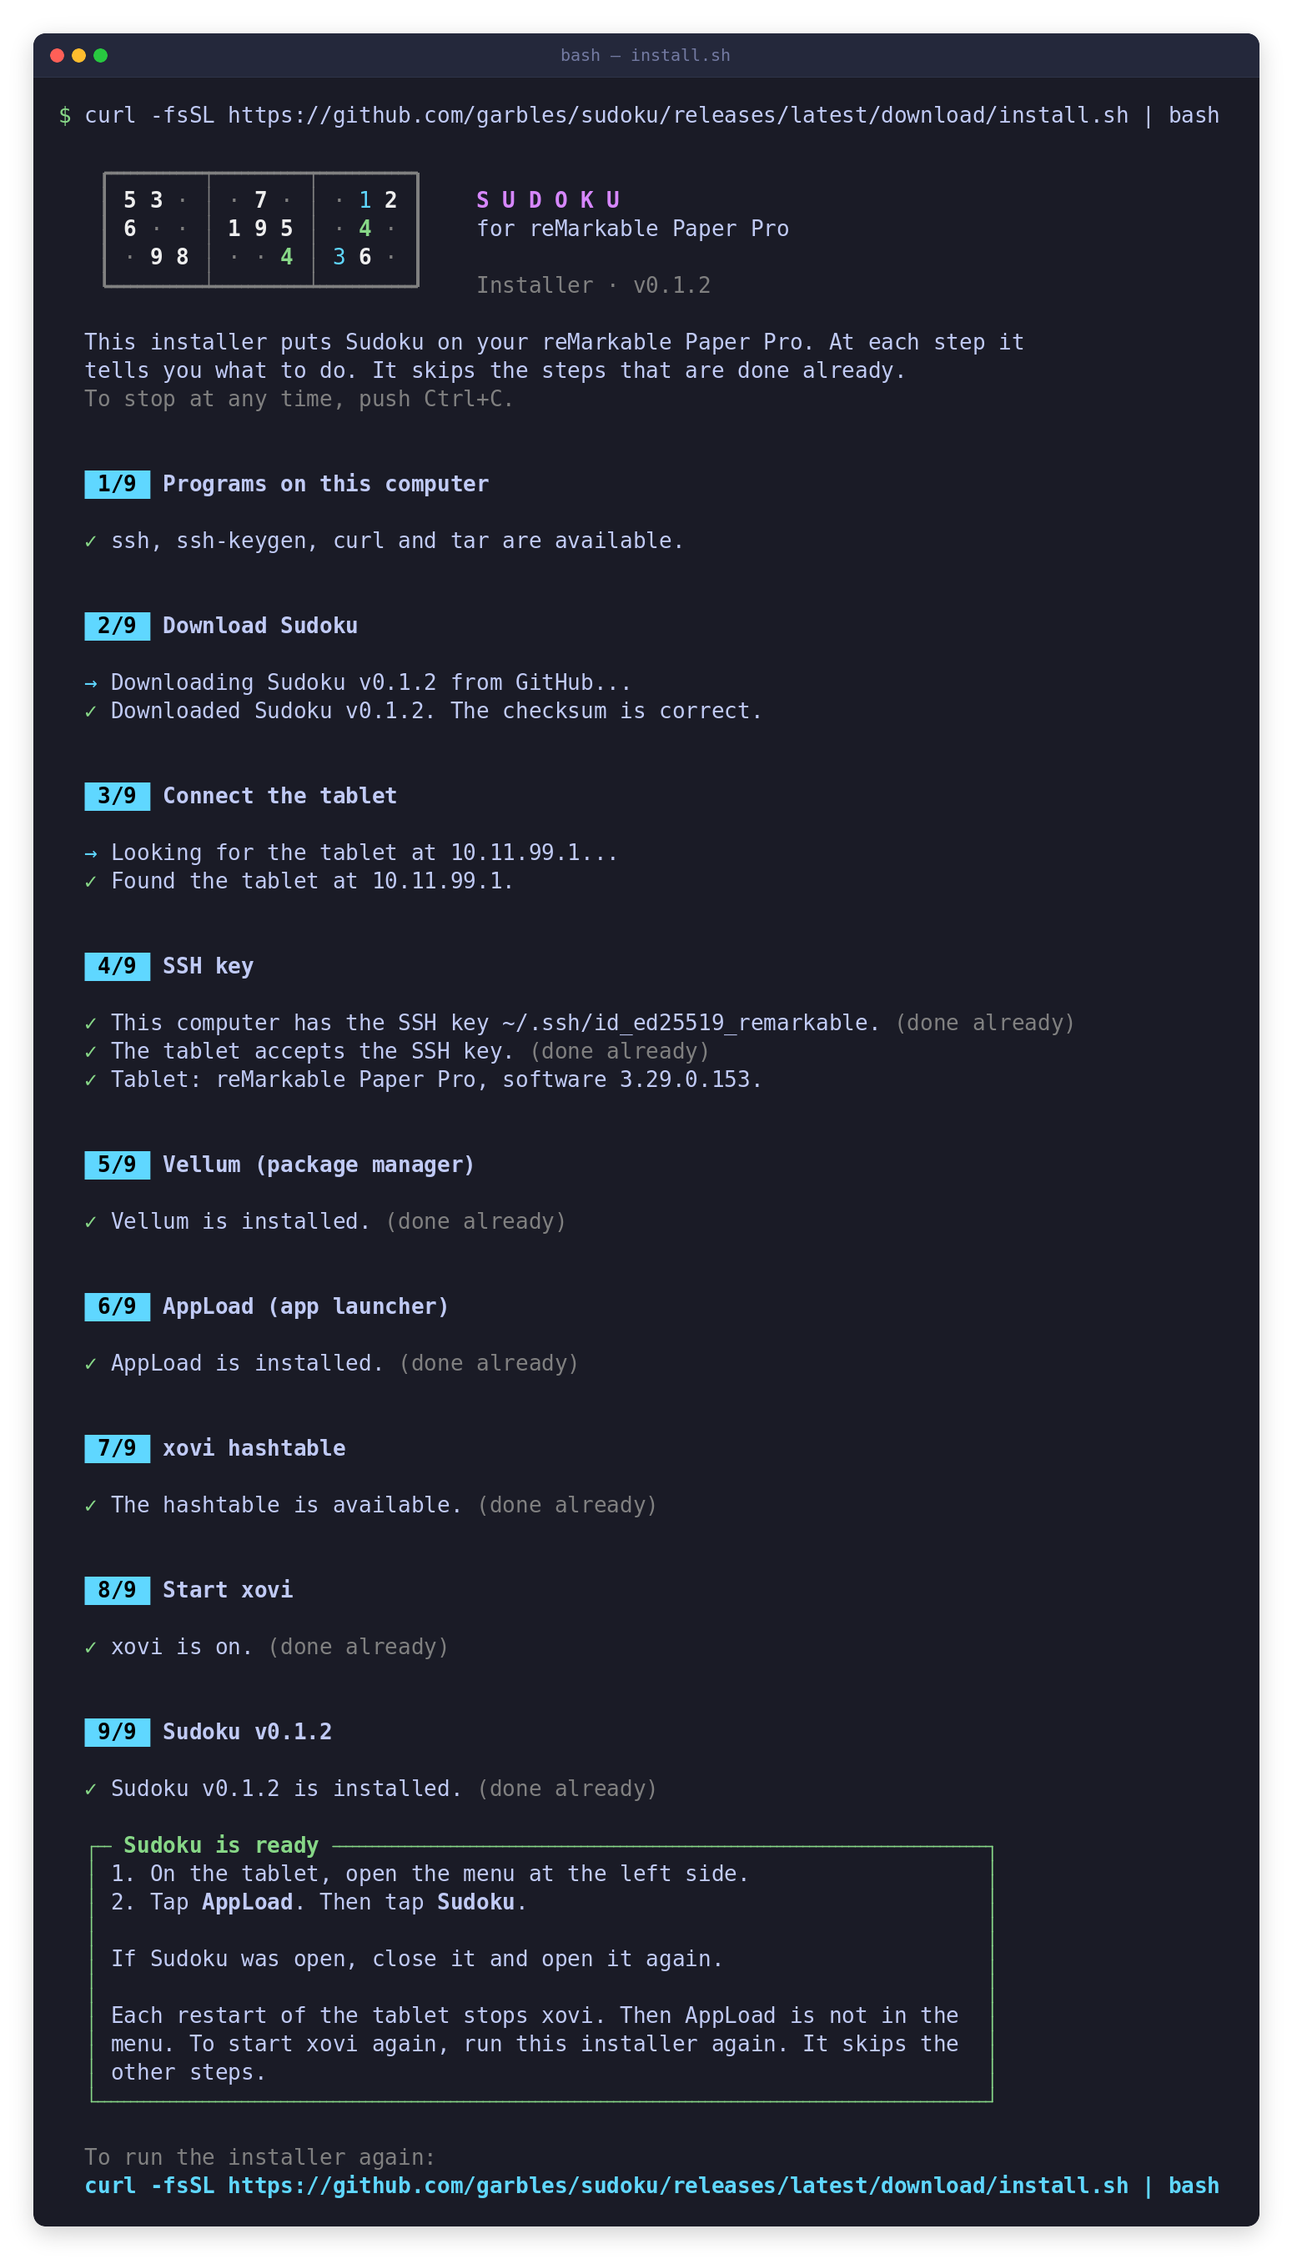
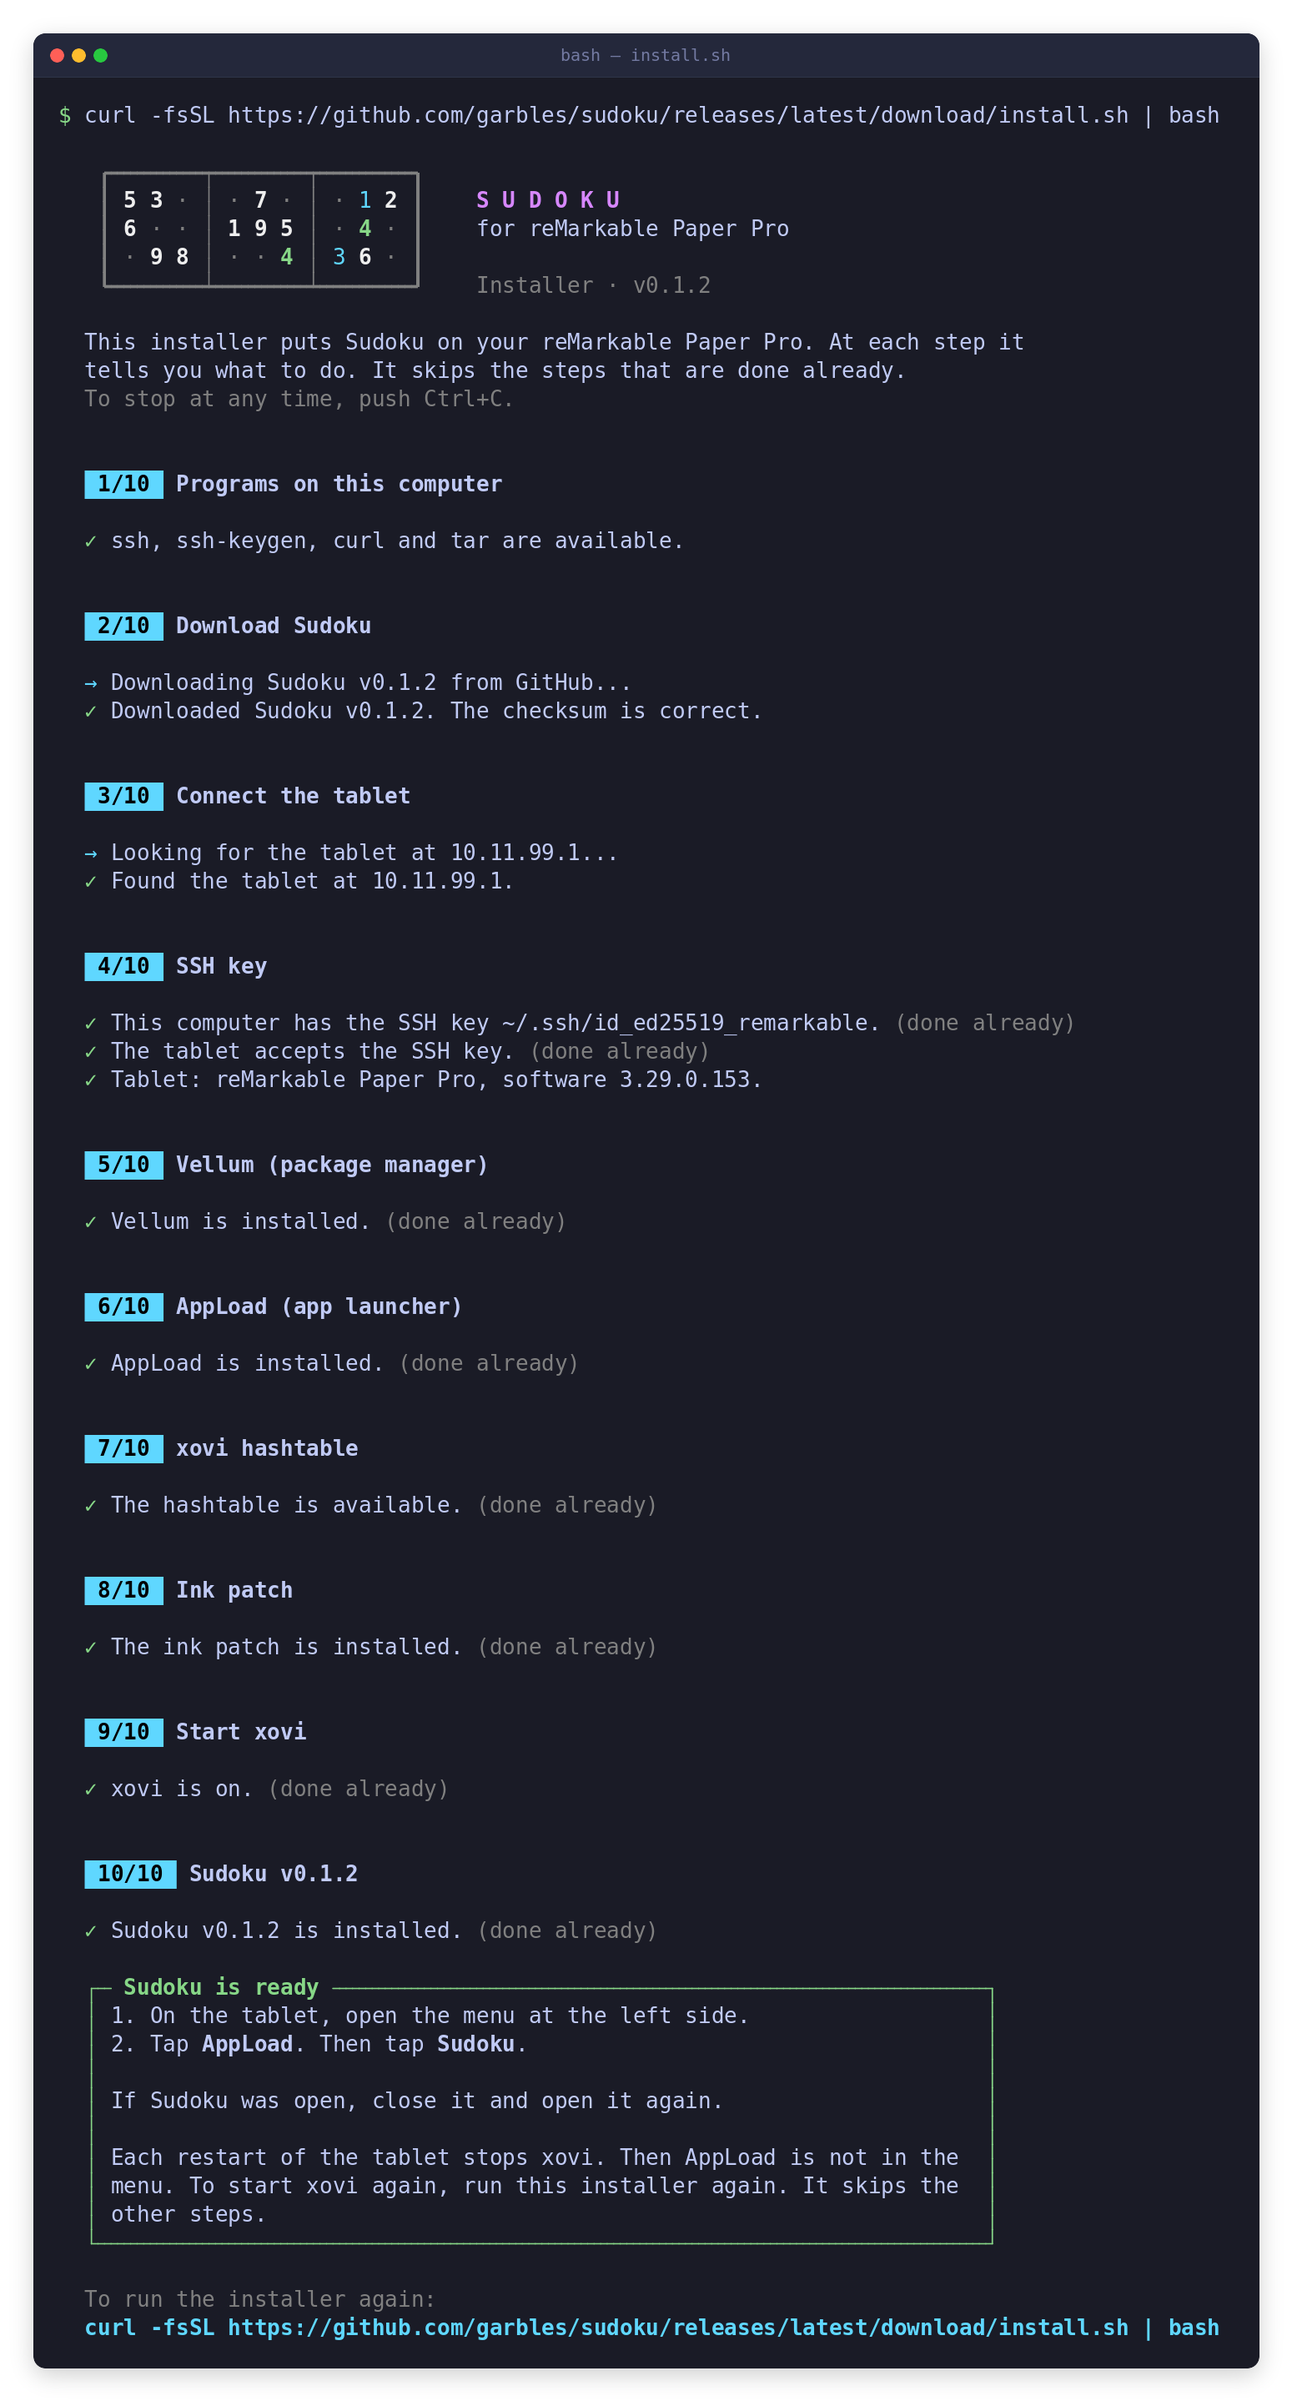
Installer installs the ink patch
The Pen region needs the ink patch in xovi/exthome/qt-resource-rebuilder.

- appload/sudoku/sudoku-penregion.qmd: the patch is now in the AppLoad
  folder, thus each release archive has it.
- install.sh: new step 8 "Ink patch" copies the patch when its checksum
  is different. Step 9 starts xovi, or starts it again when the patch
  changed (one restart of the user interface at most). Sudoku is step 10.
- The app uses the Pen region only when xochitl started after the patch
  was copied (xochitl reads patches only when it starts).
- Fake ssh, run.sh (new scenario "patch") and tests/install.rs.
- REQUIREMENTS.md §14.4 and §14.6, README.md, site and the installer
  screenshots agree with the new steps.

diff --git a/site/index.html b/site/index.html
@@ -269,7 +269,7 @@
         <li>The installer downloads the latest release and examines its checksum.</li>
         <li>It finds the tablet on the USB cable. If developer mode is off, it tells you how to turn it on.</li>
         <li>It makes an SSH key and adds it to the tablet. For this, you type the SSH password of the tablet one time.</li>
-        <li>It installs <a href="https://github.com/vellum-dev/vellum">Vellum</a> and the AppLoad launcher, and starts xovi. The tablet must be connected to Wi-Fi.</li>
+        <li>It installs <a href="https://github.com/vellum-dev/vellum">Vellum</a> and the AppLoad launcher, copies the ink patch and starts xovi. The tablet must be connected to Wi-Fi. With the ink patch, the ink has no gaps while you write.</li>
         <li>It copies Sudoku to AppLoad. Open AppLoad on the tablet and tap <strong>Sudoku</strong>.</li>
       </ol>
 

diff --git a/tests/install.rs b/tests/install.rs
@@ -33,11 +33,11 @@ fn strip_ansi(s: &str) -> String {
     out
 }
 
-/// The lines of the step "n/9 ..." up to the next step.
+/// The lines of the step "n/10 ..." up to the next step.
 fn step(out: &str, n: u32) -> String {
-    let start = out.find(&format!(" {n}/9 ")).unwrap_or_else(|| panic!("no step {n}:\n{out}"));
+    let start = out.find(&format!(" {n}/10 ")).unwrap_or_else(|| panic!("no step {n}:\n{out}"));
     let rest = &out[start + 1..];
-    let end = rest.find(&format!(" {}/9 ", n + 1)).unwrap_or(rest.len());
+    let end = rest.find(&format!(" {}/10 ", n + 1)).unwrap_or(rest.len());
     rest[..end].to_string()
 }
 
@@ -45,9 +45,9 @@ fn assert_has(out: &str, text: &str) {
     assert!(out.contains(text), "the output does not contain {text:?}:\n{out}");
 }
 
-/// All 9 steps show "(done already)" and none does an action.
+/// All 10 steps show "(done already)" and none does an action.
 fn assert_all_done(out: &str) {
-    for n in 2..=9 {
+    for n in 2..=10 {
         let s = step(out, n);
         if n == 2 || n == 3 {
             continue; // the download and the connection always operate
@@ -71,10 +71,12 @@ fn first_installation_does_all_steps() {
     assert_has(&step(&out, 6), "AppLoad is installed.");
     assert_has(&step(&out, 7), "Before you continue");
     assert_has(&step(&out, 7), "The hashtable is available.");
-    // The hashtable step warned already. Step 8 does not ask again.
-    assert!(!step(&out, 8).contains("Before you continue"), "{out}");
-    assert_has(&step(&out, 8), "xovi is on.");
-    assert_has(&step(&out, 9), "Sudoku v0.1.2 is installed.");
+    assert_has(&step(&out, 8), "Copying the ink patch to the tablet...");
+    assert_has(&step(&out, 8), "The ink patch is installed.");
+    // The hashtable step warned already. Step 9 does not ask again.
+    assert!(!step(&out, 9).contains("Before you continue"), "{out}");
+    assert_has(&step(&out, 9), "xovi is on.");
+    assert_has(&step(&out, 10), "Sudoku v0.1.2 is installed.");
     assert!(!out.contains("(done already)"), "{out}");
 }
 
@@ -110,11 +112,25 @@ fn restart_starts_xovi_and_replaces_an_old_version() {
     let (out, code) = run("restart");
     assert_eq!(code, 0, "{out}");
     assert_has(&step(&out, 7), "(done already)");
-    assert_has(&step(&out, 8), "Before you continue");
-    assert_has(&step(&out, 8), "xovi is on.");
-    assert_has(&step(&out, 9), "A different version of Sudoku is on the tablet.");
-    assert_has(&step(&out, 9), "Your games, settings and statistics stay on the tablet.");
-    assert_has(&step(&out, 9), "Sudoku v0.1.2 is installed.");
+    assert_has(&step(&out, 8), "(done already)");
+    assert_has(&step(&out, 9), "Before you continue");
+    assert_has(&step(&out, 9), "xovi is on.");
+    assert_has(&step(&out, 10), "A different version of Sudoku is on the tablet.");
+    assert_has(&step(&out, 10), "Your games, settings and statistics stay on the tablet.");
+    assert_has(&step(&out, 10), "Sudoku v0.1.2 is installed.");
+}
+
+/// A new ink patch: the installer copies it, and xovi starts again (one time) to apply it.
+#[test]
+fn new_ink_patch_starts_xovi_again() {
+    let (out, code) = run("patch");
+    assert_eq!(code, 0, "{out}");
+    assert_has(&step(&out, 8), "Copying the ink patch to the tablet...");
+    assert_has(&step(&out, 8), "The ink patch is installed.");
+    assert_has(&step(&out, 9), "xovi must start again to apply the ink patch.");
+    assert_has(&step(&out, 9), "Before you continue");
+    assert_has(&step(&out, 9), "xovi is on.");
+    assert_has(&step(&out, 10), "(done already)");
 }
 
 #[test]
@@ -157,7 +173,7 @@ fn q_stops_the_installer() {
     let (out, code) = run("stop");
     assert_eq!(code, 1, "{out}");
     assert_has(&out, "The installer stopped. Run the same command again to continue.");
-    assert!(!out.contains(" 4/9 "), "{out}");
+    assert!(!out.contains(" 4/10 "), "{out}");
 }
 
 #[test]
@@ -165,13 +181,13 @@ fn other_tablet_needs_a_confirmation() {
     let (out, code) = run("other");
     assert_eq!(code, 1, "{out}");
     assert_has(&out, "This tablet is not a reMarkable Paper Pro");
-    assert!(!out.contains(" 5/9 "), "{out}");
+    assert!(!out.contains(" 5/10 "), "{out}");
 }
 
 /// All boxes have the same width, and no line is wider than the 90 columns of the screenshots.
 #[test]
 fn output_fits_the_terminal() {
-    for scenario in ["first", "connect", "password", "hostkey", "offline", "download", "stop", "other"] {
+    for scenario in ["first", "connect", "password", "hostkey", "offline", "download", "stop", "other", "patch"] {
         let (out, _) = run(scenario);
         for line in out.lines() {
             let width = line.chars().count();

diff --git a/src/platform/mod.rs b/src/platform/mod.rs
@@ -44,8 +44,43 @@ impl Paths {
     }
 }
 
-/// The QML patch of AppLoad that shows the pen region (DEBUG.md).
+/// The ink patch: a QML patch of AppLoad that shows the pen region (`appload/sudoku/sudoku-penregion.qmd`).
+/// install.sh copies it here.
 const PEN_REGION_PATCH: &str = "/home/root/xovi/exthome/qt-resource-rebuilder/sudoku-penregion.qmd";
+
+/// True if xochitl applied the ink patch: the patch is installed, and xochitl (the parent process,
+/// because AppLoad starts the app) started after the patch was copied. xochitl reads the patches only
+/// when it starts. If the parent is not xochitl, the file is sufficient.
+fn pen_region_patch_active() -> bool {
+    let Ok(modified) = std::fs::metadata(PEN_REGION_PATCH).and_then(|m| m.modified()) else { return false };
+    // SAFETY: getppid has no preconditions.
+    let ppid = unsafe { libc::getppid() };
+    let comm = std::fs::read_to_string(format!("/proc/{ppid}/comm")).unwrap_or_default();
+    if comm.trim() != "xochitl" {
+        return true;
+    }
+    // The boot time has whole seconds, thus the start time can be up to 1 s early. install.sh copies
+    // the patch and starts xochitl again at once: a tolerance of 2 s accepts this.
+    match process_start(ppid) {
+        Some(started) => modified <= started + Duration::from_secs(2),
+        None => true,
+    }
+}
+
+/// The start time of the process `pid`: the boot time (/proc/stat "btime") plus the start time in
+/// clock ticks after boot (/proc/PID/stat, field 22).
+fn process_start(pid: libc::pid_t) -> Option<std::time::SystemTime> {
+    let stat = std::fs::read_to_string(format!("/proc/{pid}/stat")).ok()?;
+    // The second field (the name) can contain spaces: count the fields after the last ')'.
+    let ticks: u64 = stat.rsplit_once(')')?.1.split_whitespace().nth(19)?.parse().ok()?;
+    let btime: u64 = std::fs::read_to_string("/proc/stat")
+        .ok()?
+        .lines()
+        .find_map(|l| l.strip_prefix("btime ").and_then(|v| v.trim().parse().ok()))?;
+    // SAFETY: sysconf has no preconditions.
+    let hz = unsafe { libc::sysconf(libc::_SC_CLK_TCK) }.max(1) as u64;
+    Some(std::time::UNIX_EPOCH + Duration::from_secs(btime) + Duration::from_millis(ticks * 1000 / hz))
+}
 
 /// The file that gives the pen region to the patch: "x y width height" (physical pixels), or empty
 /// for no region. The patch reads it each 15 ms.
@@ -246,8 +281,8 @@ pub fn run() -> Result<(), String> {
         }
     }
     let mut presenter = Presenter::new();
-    // The QML patch of AppLoad shows the pen region (DEBUG.md). Without it, the app does not use one.
-    presenter.use_pen_region = std::path::Path::new(PEN_REGION_PATCH).exists();
+    // The ink patch shows the pen region. Without it, the app does not use one.
+    presenter.use_pen_region = pen_region_patch_active();
     eprintln!("sudoku: pen region {}", if presenter.use_pen_region { "on" } else { "off" });
     write_pen_region(None);
     // For a test on the device: SUDOKU_INK_WAVE_MS, or the file `ink-wave-ms` in the data folder,

diff --git a/REQUIREMENTS.md b/REQUIREMENTS.md
@@ -900,11 +900,30 @@ package manager **Vellum**:
 1. `vellum add appload`. This installs xovi, xovi-extensions, qt-resource-rebuilder and AppLoad. On
    OS 3.29 the package `launcherctl-appload` does not install, because its dependency
    `lockscreen_hook` supports only OS versions before 3.28.
-2. `/home/root/xovi/rebuild_hashtable`, then `/home/root/xovi/start`. After a restart of the tablet,
-   run `/home/root/xovi/start` again.
-3. Copy the folder `dist/sudoku` (from the Dockerfile) to `/home/root/xovi/exthome/appload/`.
+2. `/home/root/xovi/rebuild_hashtable`.
+3. Copy the ink patch `dist/sudoku/sudoku-penregion.qmd` to
+   `/home/root/xovi/exthome/qt-resource-rebuilder/`.
+4. `/home/root/xovi/start`. After a restart of the tablet, run `/home/root/xovi/start` again.
+5. Copy the folder `dist/sudoku` (from the Dockerfile) to `/home/root/xovi/exthome/appload/`.
 
 The installer (§14.6) does these steps automatically.
+
+**Ink patch** (owner decision, 2026-11-01). With the UI waveform of the window, the ink had gaps
+while the pen wrote (DECISIONS.md). The ink patch is a QML patch of AppLoad for qt-resource-rebuilder.
+It puts an area with the Pen screen mode of xochitl (the fast pen waveform) in the window of the app.
+The app gives the area in `/tmp/sudoku-pen-region` ("x y width height", or empty), and the patch
+reads it each 15 ms:
+
+- While the player writes in a cell, the area is the inside of that cell, aligned inward to 4 px.
+  It does not touch the cells around it, because xochitl refreshes the full area when it starts and
+  when it stops.
+- The ink waits until the patch can apply a new area (45 ms). A redraw waits until the area stopped
+  (45 ms), so that colored cells get the UI waveform.
+- xochitl reads the patch only when it starts. The app uses the area only if the patch was installed
+  before xochitl started. Without the patch, the app sends the ink so that an update never touches
+  changed pixels of an update in progress.
+- An update of the tablet software or of AppLoad can stop the patch. Then the window opens, but the
+  ink can have gaps.
 
 The close button shows the reMarkable interface again. AppLoad draws a black line of 2 px around the
 window of each app, also in full screen. The app cannot remove it. The app does not put content at
@@ -982,8 +1001,9 @@ The steps:
 | 5. Vellum | `/home/root/.vellum/bin/vellum` | Examines the internet connection of the tablet (instructions for Wi-Fi). Downloads the latest Vellum bootstrap script on the computer (curl examines the TLS certificate) and runs it on the tablet. The installer keeps no checksum of this script, because each Vellum release changes it. |
 | 6. AppLoad | `/home/root/xovi/extensions.d/appload.so` | `vellum update`, then `vellum add appload`. |
 | 7. Hashtable | `/home/root/xovi/exthome/qt-resource-rebuilder/hashtab` | Tells the user that the screen stops for 1 to 2 minutes, then runs `xovi/rebuild_hashtable`. |
-| 8. xovi | `xochitl` has `xovi.so` | Runs `xovi/start` (the user interface starts again). |
-| 9. Sudoku | The SHA-256 checksum of the installed `sudoku` is equal to the checksum in the archive | Copies the archive to the tablet and replaces the AppLoad folder `sudoku` only after all checks. The saved data (§14.1–14.3) does not change. |
+| 8. Ink patch | The SHA-256 checksum of `sudoku-penregion.qmd` in `xovi/exthome/qt-resource-rebuilder` is equal to the checksum of the copy in the archive | Copies the ink patch (§14.4) from the archive to the tablet. |
+| 9. xovi | `xochitl` has `xovi.so`, and step 8 did not copy the patch | Runs `xovi/start` (the user interface starts again). The patch operates only after this start. |
+| 10. Sudoku | The SHA-256 checksum of the installed `sudoku` is equal to the checksum in the archive | Copies the archive to the tablet and replaces the AppLoad folder `sudoku` only after all checks. The saved data (§14.1–14.3) does not change. |
 
 At the end, a box tells how to open the app. A restart of the tablet stops xovi. To start it again,
 the user runs the installer again.

diff --git a/README.md b/README.md
@@ -63,7 +63,8 @@ The installer tells you what to do at each step:
 
 4. It installs [Vellum](https://github.com/vellum-dev/vellum) and the AppLoad launcher, makes the
 
-   xovi hashtable and starts xovi. The tablet must be connected to Wi-Fi for this step.
+   xovi hashtable, copies the ink patch and starts xovi. The tablet must be connected to Wi-Fi for
+   this step. With the ink patch, the ink has no gaps while you write.
 
 5. It copies Sudoku to AppLoad.
 
@@ -78,15 +79,12 @@ To use Wi-Fi in place of the USB cable, set the address of the tablet:
 
 ### Manual installation
 
-1. Install the AppLoad launcher with Vellum, and start xovi:
+1. Install the AppLoad launcher with Vellum:
 
    ```bash
      vellum add appload
      /home/root/xovi/rebuild_hashtable
-     /home/root/xovi/start
    ```
-
-   After a restart of the tablet, run `/home/root/xovi/start` again.
 
 2. Download `sudoku-<version>.tar.gz` from the
 
@@ -104,7 +102,16 @@ To use Wi-Fi in place of the USB cable, set the address of the tablet:
    `10.11.99.1` is the address of the tablet on a USB connection. On Wi-Fi, use the IP address of
    the tablet.
 
-4. Open AppLoad on the tablet and tap **Sudoku**.
+4. Copy the ink patch and start xovi. The user interface of the tablet starts again:
+
+   ```bash
+     scp dist/sudoku/sudoku-penregion.qmd root@10.11.99.1:/home/root/xovi/exthome/qt-resource-rebuilder/
+     ssh root@10.11.99.1 /home/root/xovi/start
+   ```
+
+   After a restart of the tablet, run `/home/root/xovi/start` again.
+
+5. Open AppLoad on the tablet and tap **Sudoku**.
 
 ### Saved data
 

diff --git a/images/INDEX.md b/images/INDEX.md
@@ -103,7 +103,7 @@ with the output). The font is DejaVu Sans Mono (`scripts/fonts/`).
 
 | Image | Scenario | Content |
 |---|---|---|
-| `install-first.png` | `first` | A new tablet in developer mode. All 9 steps operate: the SSH key and the password, Vellum, AppLoad, the hashtable, xovi and Sudoku. |
+| `install-first.png` | `first` | A new tablet in developer mode. All 10 steps operate: the SSH key and the password, Vellum, AppLoad, the hashtable, the ink patch, xovi and Sudoku. |
 | `install-connect.png` | `connect` | The tablet does not answer (instructions for the USB cable), then SSH is off (instructions for developer mode). All other steps are done already. |
 | `install-restart.png` | `restart` | After a restart of the tablet with an earlier version of Sudoku: the installer starts xovi and replaces the app. |
 | `install-again.png` | `again` | All steps are done already. The installer changes nothing. |
